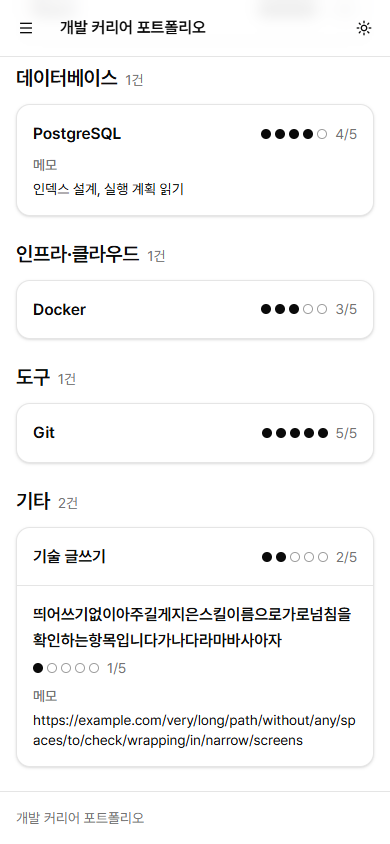
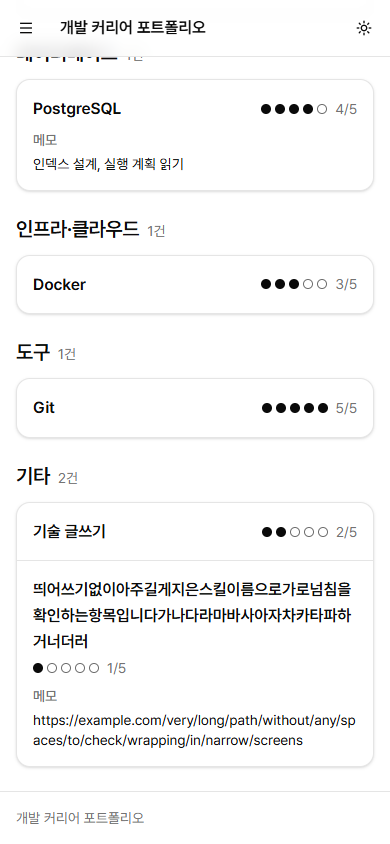
fix: 스킬 분류를 랜드마크로 만들지 않고 빈 점 대비 높이기 (#44)
분류마다 영역이 생겨 랜드마크 목록이 붐비고 이름이 세 번 겹쳐 읽혔다.
분류는 제목 아래 일반 묶음으로 두고 목록 이름을 없앴다. 라이트 모드의
빈 점 테두리를 진하게 하고, 숨긴 "N/5"를 테스트로 확인한다. 50자
스킬명으로 사진을 다시 찍었다.

diff --git a/frontend/src/skills.test.tsx b/frontend/src/skills.test.tsx
@@ -34,6 +34,12 @@ function serve(skills: { status: number; body: object } | 'offline') {
   );
 }
 
+/** The skills listed under a category heading such as "언어 2건". */
+const groupList = (heading: string) =>
+  within(
+    screen.getByRole('heading', { level: 2, name: heading }).parentElement as HTMLElement,
+  ).getByRole('list');
+
 function openSkills() {
   window.history.replaceState(null, '', '/skills');
   render(<App />);
@@ -54,23 +60,22 @@ test('skills are grouped by category in the fixed order, empty categories left o
   // Deliberately out of category order: the groups must follow the fixed order.
   serve({ status: 200, body: { skills: [docker, typescript, go, postgres] } });
   openSkills();
-  await screen.findByRole('list', { name: '언어 스킬' });
+  await screen.findByRole('heading', { level: 2, name: '언어 2건' });
   expect(screen.getByRole('status')).toHaveTextContent('스킬 4건');
   expect(screen.getByRole('region', { name: '스킬' })).toHaveAttribute('aria-busy', 'false');
   expect(
     screen.getAllByRole('heading', { level: 2 }).map((heading) => heading.textContent),
   ).toEqual(['언어 2건', '데이터베이스 1건', '인프라·클라우드 1건']);
-  // Each group is a region named by its heading.
-  const languages = screen.getByRole('region', { name: '언어 2건' });
+  // Groups are not landmarks, so the landmark list is not crowded with six categories.
+  expect(screen.queryByRole('region', { name: /언어/ })).not.toBeInTheDocument();
+  const languages = groupList('언어 2건');
   expect(
     within(languages)
       .getAllByRole('heading', { level: 3 })
       .map((heading) => heading.textContent),
   ).toEqual(['TypeScript', 'Go']);
-  expect(
-    screen.queryByRole('list', { name: '프레임워크·라이브러리 스킬' }),
-  ).not.toBeInTheDocument();
-  expect(screen.queryByRole('list', { name: '도구 스킬' })).not.toBeInTheDocument();
+  expect(screen.queryByRole('heading', { name: /프레임워크/ })).not.toBeInTheDocument();
+  expect(screen.queryByRole('heading', { name: /도구/ })).not.toBeInTheDocument();
 });
 
 test('a skill shows its proficiency as dots, a short count and a full sentence', async () => {
@@ -78,7 +83,8 @@ test('a skill shows its proficiency as dots, a short count and a full sentence',
   openSkills();
   const item = await screen.findByRole('listitem', { name: 'TypeScript' });
   expect(within(item).getByText('숙련도 5점 중 5점')).toHaveClass('sr-only');
-  expect(item).toHaveTextContent('5/5');
+  // The short count is for the eye only; a screen reader hears the sentence alone.
+  expect(within(item).getByText('5/5')).toHaveAttribute('aria-hidden', 'true');
   const weaker = screen.getByRole('listitem', { name: 'Go' });
   expect(within(weaker).getByText('숙련도 5점 중 3점')).toBeInTheDocument();
   // Three of the five dots are filled.
@@ -114,7 +120,7 @@ test('an empty list explains what will appear', async () => {
     await screen.findByRole('heading', { name: '아직 등록한 스킬이 없습니다' }),
   ).toBeInTheDocument();
   expect(screen.getByRole('status')).toHaveTextContent('스킬 0건');
-  expect(screen.queryByRole('list', { name: / 스킬$/ })).not.toBeInTheDocument();
+  expect(screen.queryByRole('heading', { level: 2, name: /건$/ })).not.toBeInTheDocument();
 });
 
 test('a server error is shown in Korean', async () => {

diff --git a/frontend/src/skills.tsx b/frontend/src/skills.tsx
@@ -31,7 +31,8 @@ function Proficiency({ value }: { value: number }) {
           <span
             key={index}
             className={cn(
-              'size-2.5 rounded-full border border-foreground/40',
+              // 60% keeps an empty dot's outline at 3:1 or more on the white card, not only the dark one.
+              'size-2.5 rounded-full border border-foreground/60',
               index < value ? 'bg-foreground' : 'bg-transparent',
             )}
           />
@@ -91,24 +92,23 @@ export function SkillList() {
       ) : null}
       {groupSkills(skills).map((group) => {
         const label = skillCategoryLabels[group.category];
-        const headingId = `skill-group-${group.category}`;
         return (
-          <section key={group.category} aria-labelledby={headingId} className="flex flex-col gap-3">
-            <h2 id={headingId} className="flex items-baseline gap-2">
+          // A plain group, not a landmark: six category regions would crowd the landmark list, and
+          // the heading already lets a screen reader jump between categories.
+          <div key={group.category} className="flex flex-col gap-3">
+            <h2 className="flex items-baseline gap-2">
               {label}{' '}
               <span className="text-body-sm font-normal text-muted-foreground">
                 {group.skills.length}건
               </span>
             </h2>
-            <ul
-              aria-label={`${label} 스킬`}
-              className="flex flex-col divide-y rounded-xl border bg-card text-card-foreground shadow-sm"
-            >
+            {/* Unnamed: the heading just above names it, and the list itself says how many items. */}
+            <ul className="flex flex-col divide-y rounded-xl border bg-card text-card-foreground shadow-sm">
               {group.skills.map((skill) => (
                 <SkillItem key={skill.id} skill={skill} />
               ))}
             </ul>
-          </section>
+          </div>
         );
       })}
     </section>

diff --git a/docs/changes/44-skill-list.md b/docs/changes/44-skill-list.md
@@ -15,7 +15,7 @@
 
 ## 판단한 내용
 
-- **분류 묶음:** #34의 분류 순서(언어 → 프레임워크·라이브러리 → 데이터베이스 → 인프라·클라우드 → 도구 → 기타)로 묶고, 스킬이 없는 분류는 보이지 않습니다. 분류마다 제목(`h2`)과 건수("언어 2건"), 그 제목으로 이름 붙은 영역과 "언어 스킬" 목록을 둡니다. 화면 낭독기의 제목 이동으로 분류 사이를 건너뛸 수 있습니다.
+- **분류 묶음:** #34의 분류 순서(언어 → 프레임워크·라이브러리 → 데이터베이스 → 인프라·클라우드 → 도구 → 기타)로 묶고, 스킬이 없는 분류는 보이지 않습니다. 분류마다 제목(`h2`, "언어 2건") 아래에 목록을 둡니다. 화면 낭독기의 제목 이동으로 분류 사이를 건너뛸 수 있습니다. 분류는 랜드마크(영역)로 만들지 않고, 목록에도 따로 이름을 붙이지 않았습니다(1차 리뷰 반영).
 - **분류 안 순서:** API 순서(숙련도 높은 순 → 스킬명순)를 그대로 씁니다.
 - **숙련도:** 1~5점을 점 다섯 개(채운 수 = 점수)와 "4/5"로 보입니다. 점과 "4/5"는 화면 낭독기에서 숨기고 "숙련도 5점 중 4점"을 읽게 했습니다. 색이 아니라 채움과 숫자로 구분하므로 다크 모드나 흑백에서도 읽힙니다. 단계별 뜻("4점 = …")은 #45에서 정합니다.
 - **메모:** 입력한 경우만 "메모" 제목과 함께 설명 목록(`dl`)으로 보입니다(#40 리뷰 결정).
@@ -31,3 +31,17 @@
 | 띄어쓰기 없는 50자 스킬명·긴 URL이 든 메모 | 가로 넘침 없음, 이름이 줄바꿈되고 숙련도가 아래로 내려감 ([라이트](44-skill-list/long-text-390-light.png))                | 가로 넘침 없음(측정값만)                                                      |
 | 빈 목록                                    | "아직 등록한 스킬이 없습니다" 표시, 상태 문구 "스킬 0건" ([라이트](44-skill-list/empty-390-light.png))                    | 같음(측정값만)                                                                |
 | 요청 실패                                  | "스킬을 불러오지 못했습니다. 서버에 연결할 수 없습니다" 경고 ([라이트](44-skill-list/error-390-light.png))                | 같음(측정값만)                                                                |
+
+## 1차 리뷰 반영
+
+읽기 전용 리뷰 에이전트가 PR 전체 diff와 화면 사진을 확인했습니다. 정확성 지적은 없었습니다(분류 순서가 API와 같고, DB 제약이 모르는 분류를 막아 `groupSkills`가 행을 빠뜨리지 않음). 낮음 4건을 고쳤습니다.
+
+| 지적                                                                                                                                              | 반영                                                                                     |
+| ------------------------------------------------------------------------------------------------------------------------------------------------- | ---------------------------------------------------------------------------------------- |
+| 분류마다 이름 붙은 `section`이라 랜드마크 목록에 영역이 7개 생기고, 들어갈 때 "언어 2건"(영역) → "언어 2건"(제목) → "언어 스킬"(목록)이 겹쳐 읽힘 | 분류 묶음을 일반 `div`로, 목록 이름을 없앰. 분류 영역이 없는지 테스트                    |
+| 빈 점 테두리 `border-foreground/40`이 라이트 모드 흰 카드에서 약 2.7:1로 흐림                                                                     | `border-foreground/60`으로 올림(3:1 이상). 사진을 다시 찍음                              |
+| "5/5" 테스트가 `aria-hidden`이 빠져도 통과함                                                                                                      | "5/5"가 `aria-hidden="true"`인지 확인                                                    |
+| 문서는 "50자 스킬명"이라 했지만 사진 속 이름은 41자                                                                                               | 정확히 50자 이름으로 다시 넣어 찍음. 390에서 줄바꿈되고 가로 넘침 없음, 1440도 넘침 없음 |
+
+- 빈 목록 테스트도 목록 이름 대신 분류 제목("…건")이 없는지로 확인하게 바꿨습니다.
+- `TEST_DATABASE_URL`=`career_test`로 `npm run check`: 통과. 백엔드 78건 통과·건너뜀 0건, 프론트엔드 153건 통과·2건 건너뜀, 스킬 검사 4건 통과, 빌드 통과. `npm run knip`: 통과.
